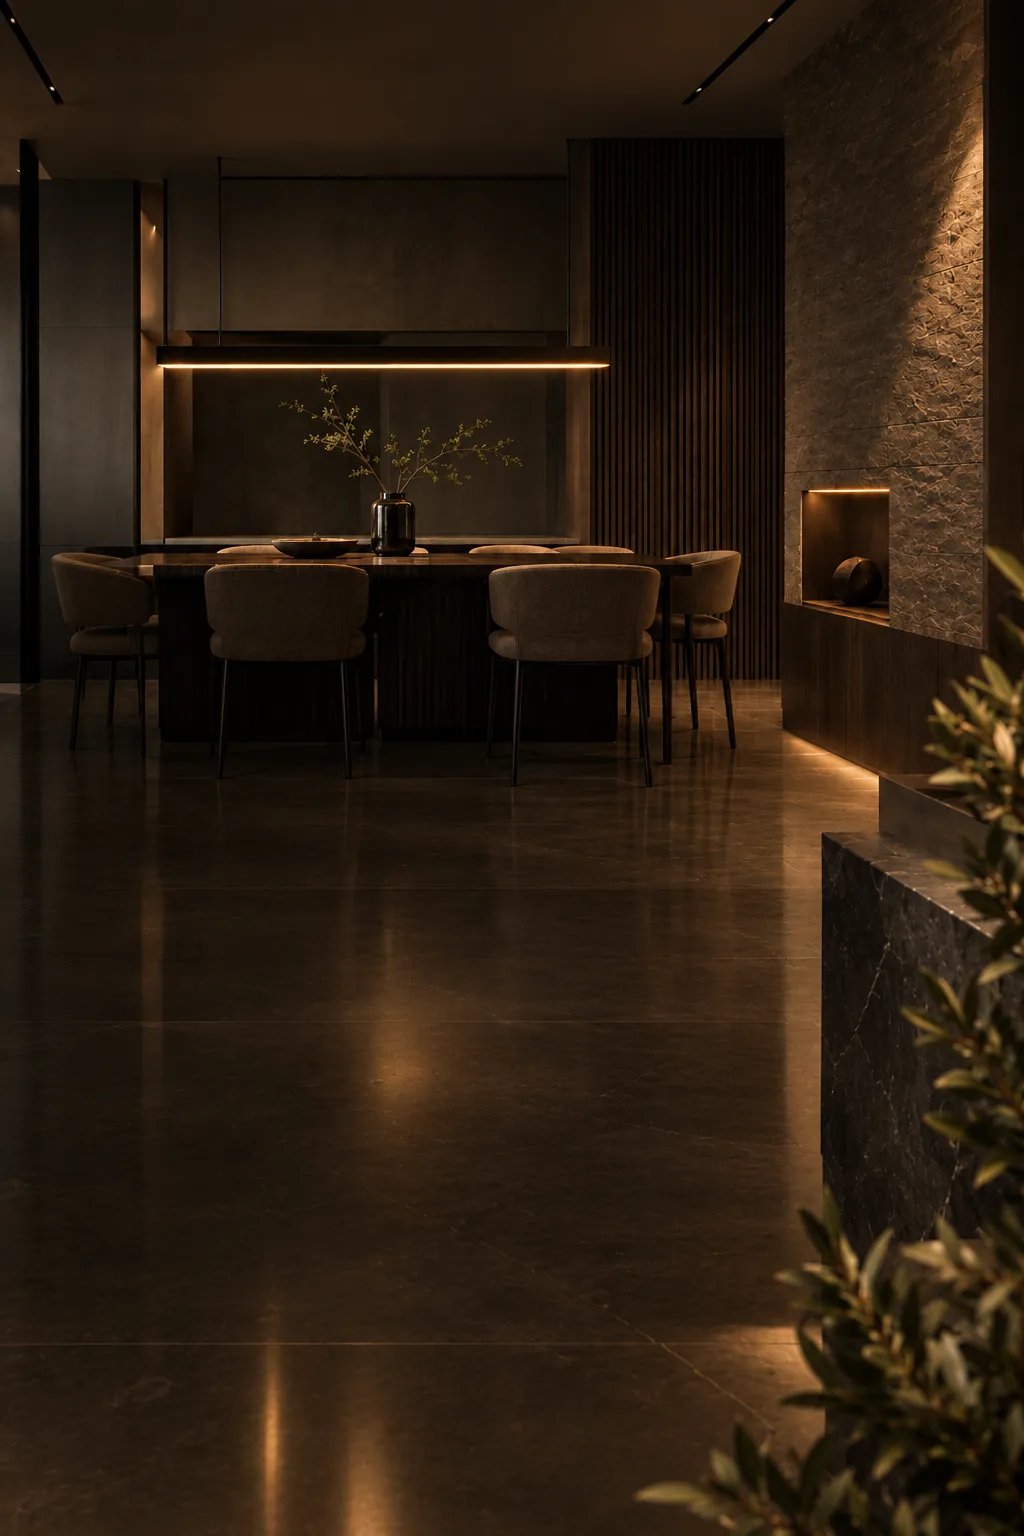
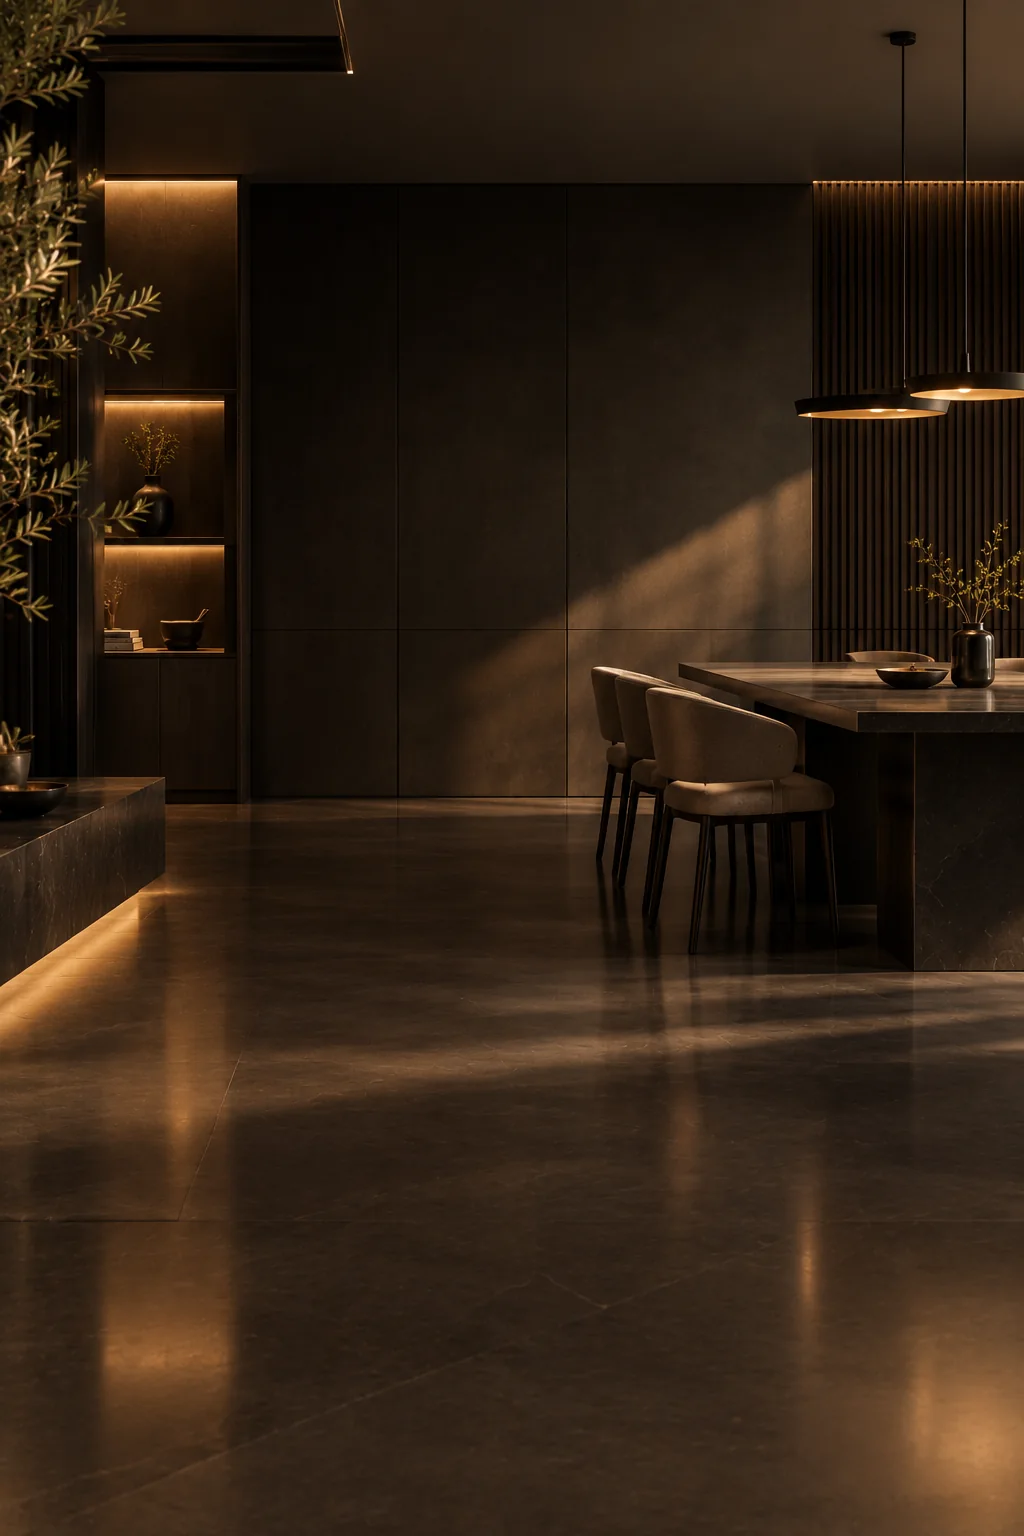
Hero on a phone: the new room, and nothing laid over it
The photograph you sent replaces the last one and carries the hero on its
own — the seven-tenths veil and the shade gathered at the corners are both
gone.

The ink stays light under either theme now rather than turning dark under
the light one. That switch existed because a white veil made the room pale;
with no veil the room is dark whichever way the theme is set — its mean
luminance is 38 of 255, and 28 across the top third where the name sits —
so dark ink would have disappeared into the floor.

1.7 MB down to 69 KB.

diff --git a/assets/css/blocks.css b/assets/css/blocks.css
@@ -1414,18 +1414,14 @@
   .hero .hero__about-body { color: rgba(243, 238, 229, .72); }
 }
 
-/* The veil over the hero photograph, and the ink that has to read on it. */
+/* The photograph carries the hero on its own — no veil over it. The room
+   is dark at either setting of the theme (its mean luminance is 38 of 255,
+   28 across the top third), so the ink stays light in both rather than
+   turning dark under the light theme and disappearing into the floor. */
 .hero {
-  --hero-veil: rgba(9, 8, 7, .70);
   --hero-ink: #FCF9F4;
-  --hero-dim: rgba(240, 234, 225, .72);
-  --hero-quiet: rgba(246, 241, 233, .9);
-}
-[data-theme='light'] .hero {
-  --hero-veil: rgba(255, 255, 255, .74);
-  --hero-ink: #0A0907;
-  --hero-dim: rgba(16, 15, 12, .86);
-  --hero-quiet: rgba(16, 15, 12, .9);
+  --hero-dim: rgba(240, 234, 225, .78);
+  --hero-quiet: rgba(246, 241, 233, .92);
 }
 
 /* ==========================================================================
@@ -1458,18 +1454,6 @@
 
   /* Enough shade to read every line, and least of it across the top where
      the room should still be a room. */
-  .hero::after {
-    content: '';
-    position: absolute; inset: 0; z-index: 0;
-    pointer-events: none;
-    /* An even veil at seven tenths across the whole picture, black under the
-       dark theme and white under the light one, with a little more of it
-       gathered at the corners so the room falls away at the edges. */
-    background:
-      radial-gradient(130% 78% at 50% 42%,
-        transparent 0%, rgba(0, 0, 0, .16) 62%, rgba(0, 0, 0, .34) 100%),
-      var(--hero-veil);
-  }
 
   .hero .hero__block {
     grid-column: 1; grid-row: 1;

diff --git a/index.html b/index.html
@@ -17,7 +17,7 @@
   <link rel="stylesheet" href="assets/css/photo.css?v=1">
   <link rel="stylesheet" href="assets/css/panels.css?v=20260826-blind2">
   <link rel="stylesheet" href="https://unpkg.com/maplibre-gl@4.7.1/dist/maplibre-gl.css">
-  <link rel="stylesheet" href="assets/css/blocks.css?v=43">
+  <link rel="stylesheet" href="assets/css/blocks.css?v=44">
   <link rel="stylesheet" href="assets/css/page.css?v=4">
   <script>
     // Applied before first paint so the sheet never flashes the wrong colour.
